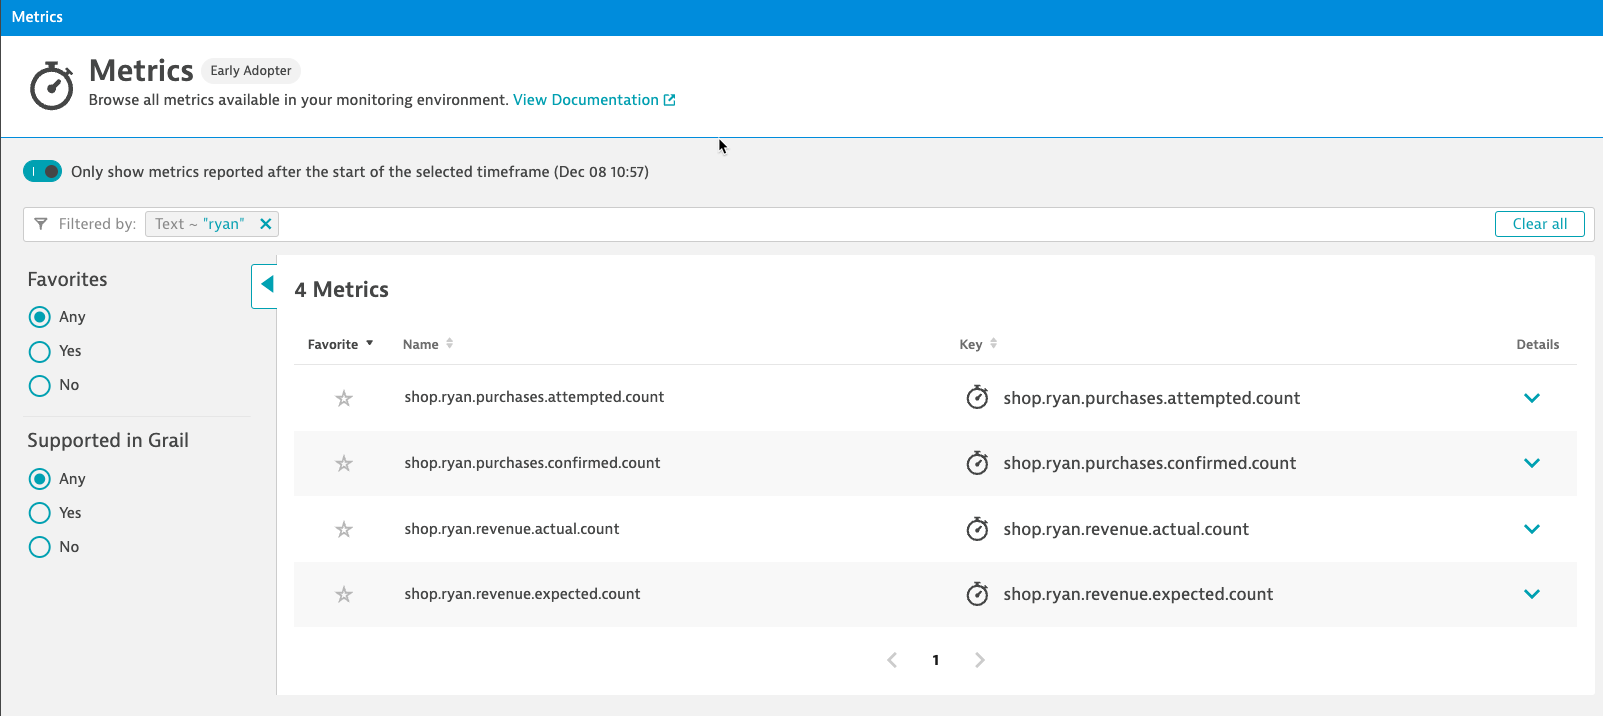
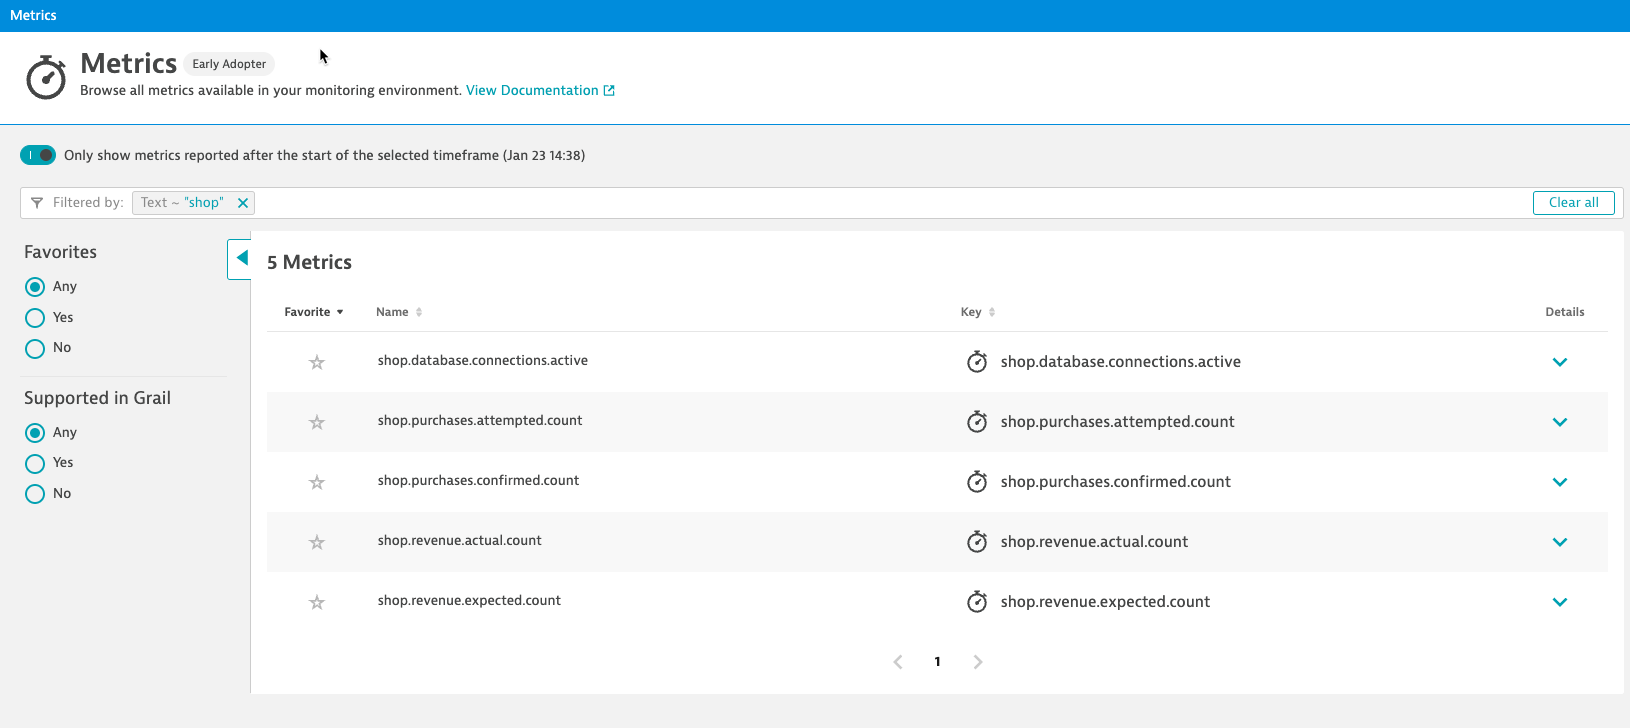
udpate

diff --git a/automate-integrate-opentelemetry/content/03_java_metrics/01_metric_creation/index.md b/automate-integrate-opentelemetry/content/03_java_metrics/01_metric_creation/index.md
@@ -84,7 +84,7 @@ Then restart your applicaiton:
 
 ### 📌 Task #4: Finding your metric
 
-Open the Data Explorer and search metrics by the name you've set as your ENVIRONMENT variable in the begining of the Hot Session. Be aware it may take a couple minutes for your new metric to appear.
+Open the Data Explorer and search `Text:` for `shop` to find the custom metrics. Be aware it may take a couple minutes for your new metric to appear.
 
 ![Settings](../../../assets/images/03-01-Metrics.png)
 
@@ -92,7 +92,7 @@ As part of the OpenTelemetrey auto-isntrumentation some metrics are provided out
 
 [Java: Supported libraries, frameworks, application servers, and JVMs](https://github.com/open-telemetry/opentelemetry-java-instrumentation/blob/main/docs/supported-libraries.md#supported-libraries-frameworks-application-servers-and-jvms)
 
-To see the metrics that are provided out of the box in our usecase naviate to the Metric Explorer and search for `process.runtime`. 
+To see the metrics that are provided out of the box by opentelemetry search `process.runtime`. 
 
 ![Settings](../../../assets/images/03-01-metric_process_runtime.png)
 

diff --git a/automate-integrate-opentelemetry/content/03_java_metrics/02_alert_creation/index.md b/automate-integrate-opentelemetry/content/03_java_metrics/02_alert_creation/index.md
@@ -2,7 +2,7 @@
 
 #### 📌 Task
 
-Lets create an Auto Adaptive baseline metric event for the `shop.database.connections.active` metric. 
+Lets create an event based off of the `shop.database.connections.active` metric. 
 
 Navigate to `Settings` > `Anomoly detection` > `Metric Events` > `Add Metric Event`
 

diff --git a/automate-integrate-opentelemetry/content/03_java_metrics/03_metric_visualization/index.md b/automate-integrate-opentelemetry/content/03_java_metrics/03_metric_visualization/index.md
@@ -1,6 +1,6 @@
 ## Metric Visualization & Analysis
 
-Now that we have our metrics in Dynatrace we need to create a business & observability dashboard. 
+Now that we have our metrics in Dynatrace lets create a visualization for our Business and Observability metrics. 
 
 ---
 
